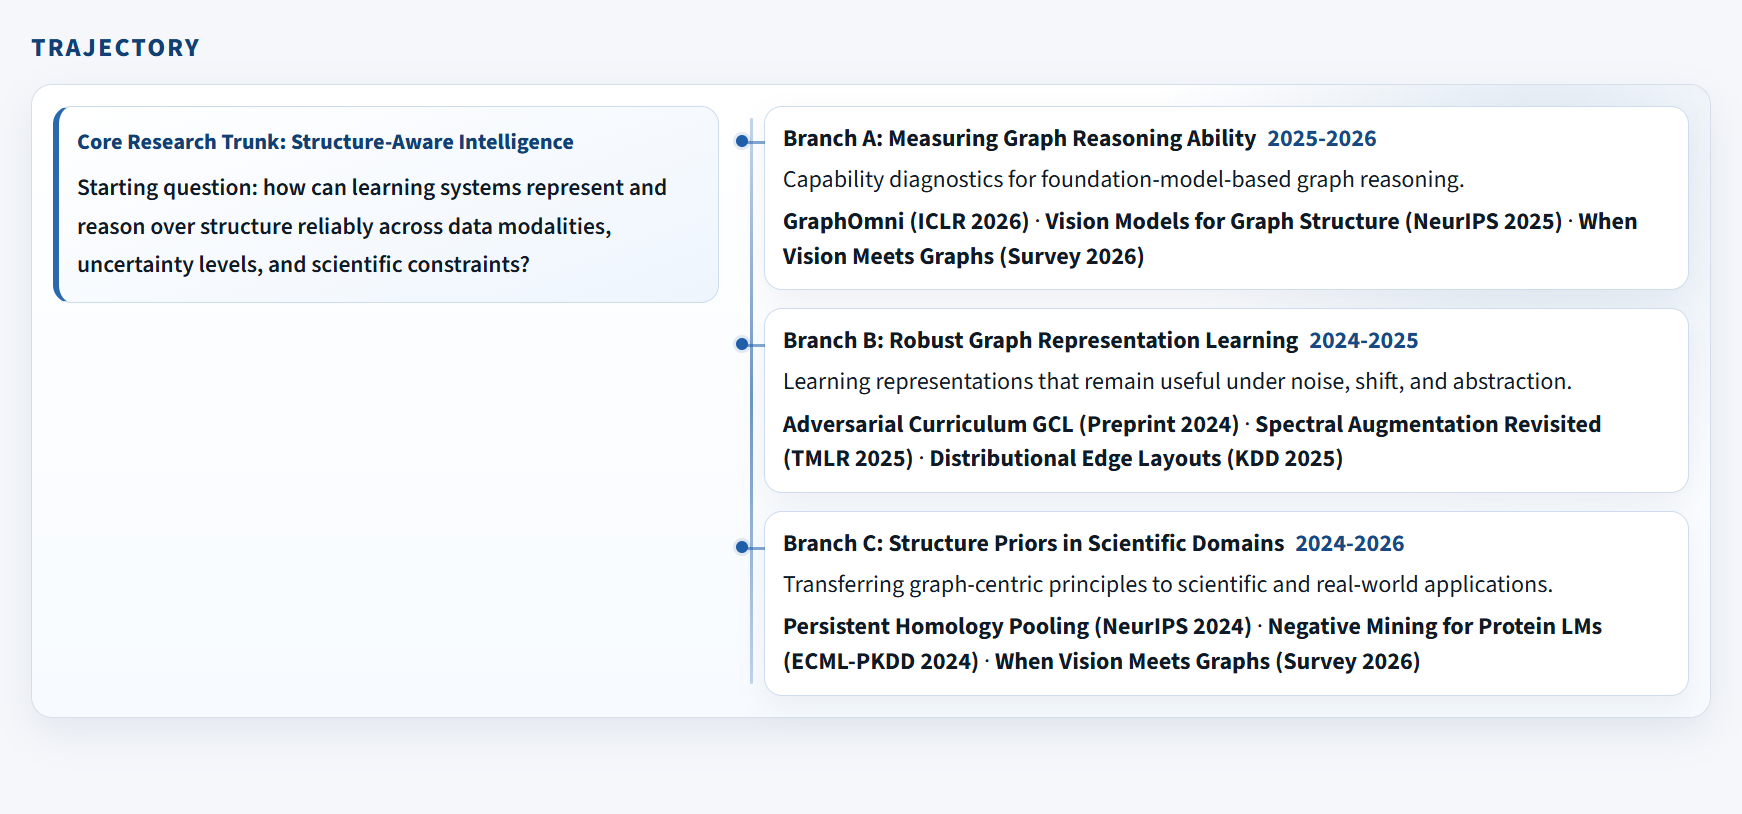
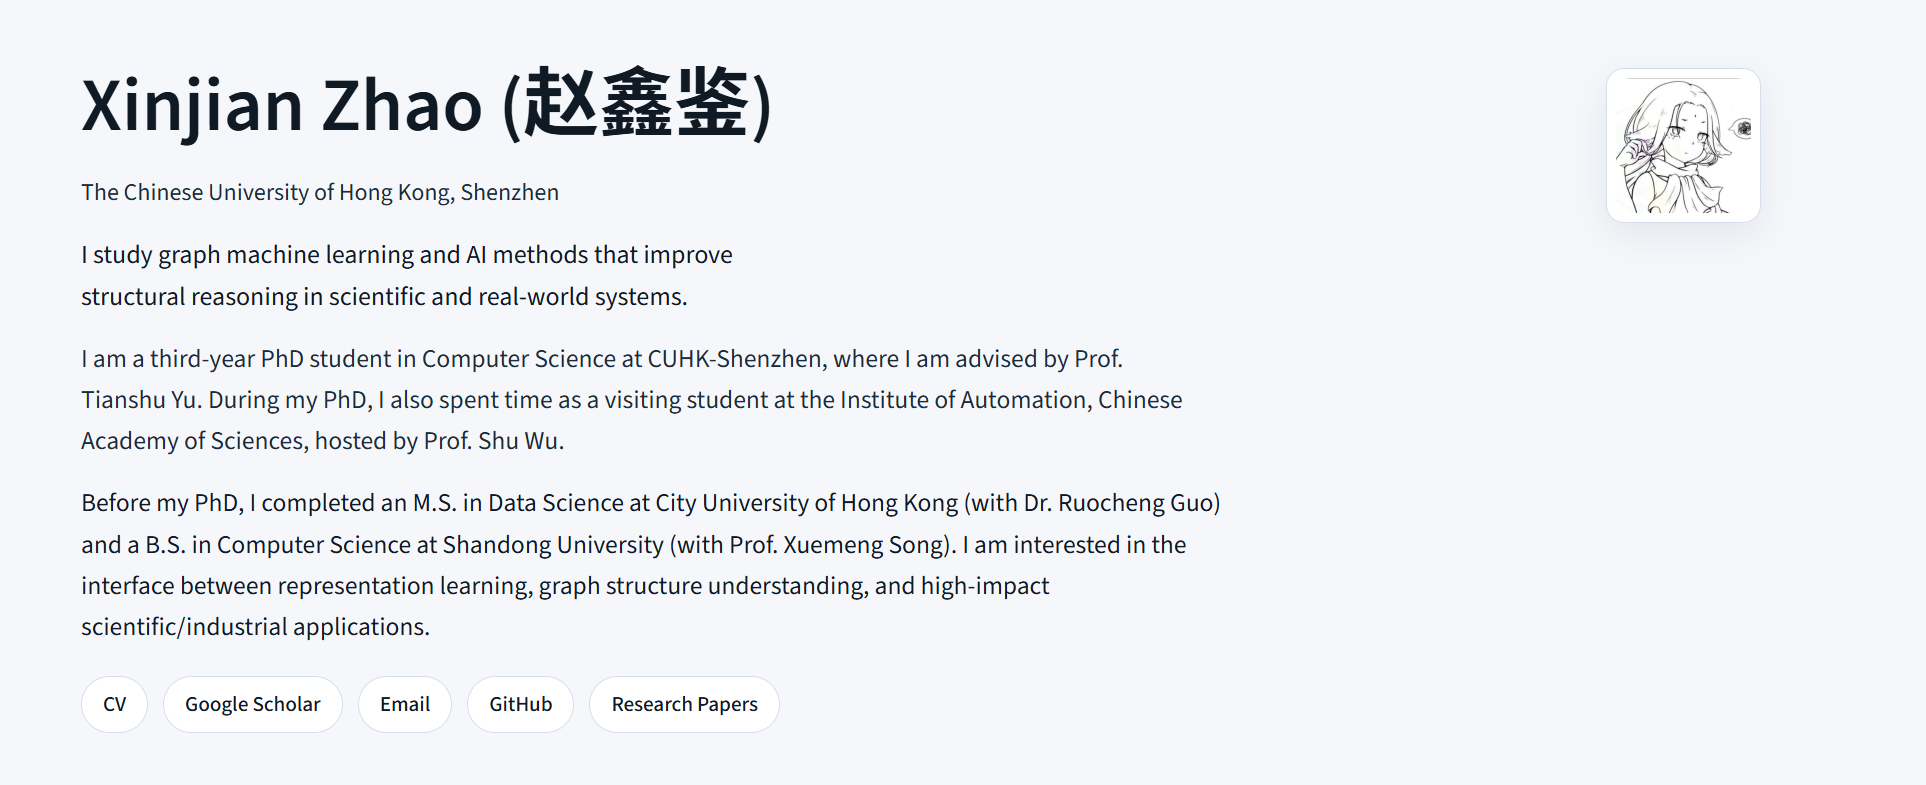
test

diff --git a/assets/css/research-home.scss b/assets/css/research-home.scss
@@ -164,7 +164,7 @@ a {
 
 .hero-grid {
   display: grid;
-  grid-template-columns: minmax(0, 2.15fr) minmax(0, 0.22fr);
+  grid-template-columns: minmax(0, 1fr) auto;
   gap: 8px;
   align-items: start;
 }
@@ -187,19 +187,14 @@ a {
   margin: 0 8px;
 }
 
-.hero-oneliner {
-  font-size: 1.08rem;
-  max-width: 56ch;
-}
-
 .hero-intro {
   color: var(--ink-muted);
-  max-width: 88ch;
+  max-width: 100ch;
 }
 
 .hero-bio-single {
   color: var(--ink);
-  max-width: 90ch;
+  max-width: 100ch;
 }
 
 .hero-links {
@@ -232,7 +227,7 @@ a {
   padding: 6px;
   justify-self: end;
   margin-top: 4px;
-  width: min(128px, 100%);
+  width: min(152px, 100%);
   box-shadow: 0 8px 24px rgba(15, 26, 36, 0.08);
 }
 
@@ -721,7 +716,7 @@ a {
 
   .hero-photo {
     justify-self: start;
-    width: 120px;
+    width: 132px;
   }
 
   .paper-card {
@@ -811,7 +806,7 @@ a {
   }
 
   .hero-photo {
-    width: 104px;
+    width: 116px;
   }
 
   .hero-links a,

diff --git a/_layouts/research-home.html b/_layouts/research-home.html
@@ -37,7 +37,6 @@ layout: compress
           <div class="hero-content reveal">
             <h1>{{ research.profile.name }}</h1>
             <p class="hero-affiliation">{{ research.profile.affiliation }}</p>
-            <p class="hero-oneliner">{{ research.profile.one_liner }}</p>
             <p class="hero-intro">{{ research.about.bio[0] }}</p>
             <p class="hero-bio-single">{{ research.about.bio[1] }} {{ research.about.bio[2] }}</p>
             <div class="hero-links">
